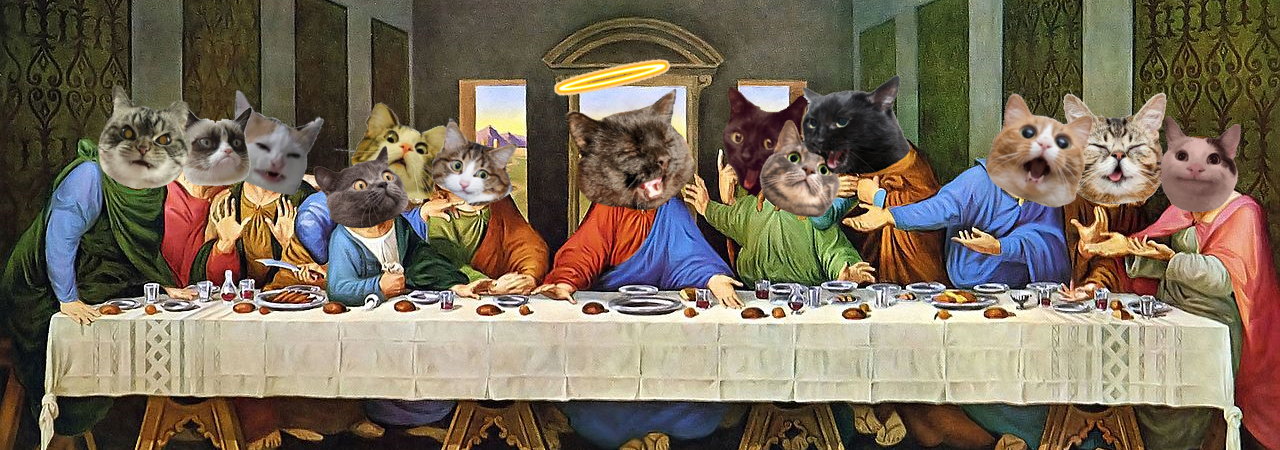
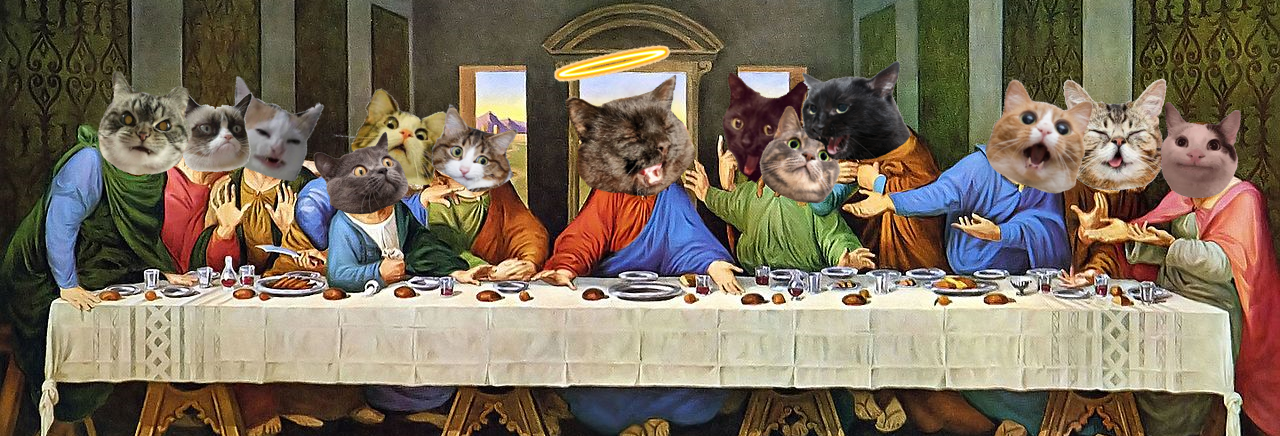
added some text on the pages, edited mobile view (minimal effort), added new topic to navi

diff --git a/main_page_styles.css b/main_page_styles.css
@@ -1,9 +1,12 @@
 html, body {
     height: 100vh;
-    width: 100vw;
+    width: 96vw;
+    margin: auto;
+    background-color: #222;
     font-family: Palatino, Helvetica, Serif;
     color: #CCC;
-    margin: 0;
+    margin-top: 0;
+    box-shadow: 5px 0 5px -5px rgba(0,0,0,0.7), -5px 0 5px -5px rgba(0,0,0,0.7);
 }
 
 /*
@@ -12,13 +15,11 @@ HEADER
 
 .header {
     background-image: url("img/supper.png");
-    background-size: 100% 138%;
+    background-size: 100% 140%;
     justify-content: center;
     height: 240px;
     padding: 10px;
-    box-shadow: 0px -5px 8px 5px black;
-    position: relative;
-    border-bottom: 1px solid #444;
+    border-bottom: 1px solid #AAA;
 }
 
 .headline {
@@ -44,8 +45,10 @@ Text part
 */
 
 .desc {
-    background-color: #CCC;
+    background-color: #EEE;
     width: 80%;
+    position: relative;
+    box-shadow: inset -5px 5px 6px 0 rgba(0, 0, 0, 0.3);
 }
 
 .text {
@@ -58,9 +61,14 @@ Text part
 .text_headline {
     margin-left: 50px;
     margin-top: 50px;
-    color: #222;
+    color: #D68910;
 }
 
+.main_text_headline {
+    margin-left: 50px;
+    margin-top: 50px;
+    color: #333;
+}
 
 
 /*
@@ -74,15 +82,26 @@ Navigator
     padding-top: 20px;
 }
 
+.main_headline {
+    text-decoration: none;
+    color: #D68910;
+}
+
+.main_headline:hover {
+    transition: all ease-out 0.2s;
+    font-size: 110%;
+    color: #b9680c;
+}
+
 .headlines {
     color: #222;
     text-decoration: none;
 }
 
 .headlines:hover {
-    transform: scale(1.02);
-    transition: ease-out 0.1s;
+    transition: all ease-out 0.1s;
     color: #D68910;
+    font-size: 110%;
 }
 
 .content {
@@ -101,4 +120,27 @@ li {
     list-style: inside;
     padding-bottom: 6px;
     color: #D68910;
+}
+
+
+
+/*
+MOBILE
+*/
+
+@media(max-width: 576px) {
+
+    html, body {
+        width: 100vw;
+    }
+
+    .header {
+        background-image: url("img/supper_mobile.png");
+        background-size: cover;
+    }
+
+    .desc, .navi {
+        width: 100%;
+    }
+
 }

diff --git a/net_projects.php b/net_projects.php
@@ -16,14 +16,22 @@
         <div class="desc">
 
             <div>
-                <h2 class="text_headline">Heipä hei ja tervetuloa katsomaan verkkoprojektejani!</h2>
+                <h2 class="main_text_headline">Heipä hei ja tervetuloa katsomaan verkkoprojektejani!</h2>
                 <p class="text">Projektini on listattu pienen kuvauksen kera alle. Linkit sivulle löytyvät projektin yhteydestä!</p>
             </div>
 
             <h3 class="text_headline" id="pekkaspaivat">Pekkaspäivät</h3>
+            <p class="text">Pekkaspäivät-sivusto on tarkoitettu pörriäishavaintojen tallentamiseen ja seuraamiseen. Tällä hetkellä sivustolle voi lisätä ja poistaa päiväkirjamerkintöjä havainnoista, mutta tulevaisuudessa sivustolle tulee myös jonkinlainen matemaattinen esitystapa havainnoille, jos havaintoja on tarpeeksi monta. Ajattelin, että kuvaaja olisi sopiva tapa havainnoistaa pörriäisten saapumis- ja lähtemisaikaa, ja kokonaisaikaa voisi kuvata esimerkiksi Gaussin jakauman avulla.
+            <br>&emsp;
+            Pekkaspäiviä voi käydä testaamassa testitunnuksilla (tunnus: Testi, ss: Testi). Kullekin "oikealle" käyttäjälle on kuitenkin luotu omat tunnukset, jotta kirjatuminen näyttää vain omat havainnot!
+            </p>
             <p class="text"><a class="links" href="https://ropaz.dev/Pekkaspaivat/index.php" target="_blank">Tästä linkistä pääset tutustumaan Pekkaspäiviin!</a></p>
 
             <h3 class="text_headline" id="nettikasvio">Nettikasvio</h3>
+            <p class="text">Nettikasvio on nimensä mukaisesti kasvio, joka tulee sisältämään kuvat ja nimet Suomen kauniista luonnosta löytyvistä yleisimmistä kasveista. Sivuston tarkoituksena on autaa luonnossa kulkijaa lajintunnistuksessa, mutta tällä hetkellä sivusto on kuitenkin vasta materiaalinkeruuvaiheessa.
+            <br>&emsp;
+            Kunhan materiaali on kerätty ja kuvat lisätty sivustolle, kasvioon tulee jonkinlainen kukan/kasvin väriin perustuva rajausominaisuus. Nettikasvioon tulee myös sellainen ominaisuus, että tunnuksen luoneet voivat lisätä materiaalia sivustolle. Ehkä sivulle tulee myös jonkinlainen kooste lajintunnistuksesta.
+            </p>
             <p class="text"><a class="links" href="https://ropaz.dev/Nettikasvio/index.php" target="_blank">Tästä linkistä pääset tutustumaan Nettikasvioon!</a></p>
         </div>
 

diff --git a/index.php b/index.php
@@ -14,11 +14,12 @@
 
     <div class="bottom">
         <div class="desc">
-            <h1 class="text_headline">Tämä sivu valmistuu tuota pikaa, kunhan ☢ Olkiluoto 3 ☢ toimittaa sähköä jouhevasti verkkoon.</h1>
-            <h1>🔧🔩🪛🪚🔨</h1>
-            <p>"Vitsin" keksi Spacha</p>
             <h2 class="text_headline">Tervetuloa Ropaz.dev:in pääsivulle!</h2>
-            <p class="text">Täältä voit löytää muun muassa linkit joillekin muille verkkosivuilleni, kuvia ja peräti tekstiä joihinkin askarteluprojekteihini liittyen.</p>
+            <p class="text">Tämä sivusto toimii niin sanottuna telakkana harrastuksiini liittyen; täältä voit löytää muun muassa linkit kuvauksineen joillekin muille verkkosivuilleni sekä kuvia ja peräti tekstiä joihinkin askarteluprojekteihini liittyen.
+            <br>&emsp;
+            Tänne sivulle on tarkoitus lisätä myös listamuotoinen kalenteri, joka kattaa aina seuraavan viikon päivät. Kalenteriin voin sitten lisätä, mitä olen ajatellut tehdä kunakin päivänä. Tämä ominaisuus tulee kuitenkin vain minun käyttööni, ja se tulee vaatimaan kirjautumisen.
+            </p>
+
         </div>
 
         <?php

diff --git a/calendar.php b/calendar.php
@@ -4,7 +4,7 @@
     <meta charset="utf-8">
     <meta name="viewport" content="width=device-width, initial-scale=1">
     <link rel="stylesheet" href="main_page_styles.css" />
-    <title>Ropaz – Projektit</title>
+    <title>Ropaz – Joku roti</title>
 </head>
 <body>
 
@@ -14,12 +14,8 @@
 
     <div class="bottom">
         <div class="desc">
-            <h2 class="main_text_headline">Askarteluja</h2>
-            <p class="text">Tänne lisäilen kuvia askarteluistani, joihin lukeutuu paljon virkkaustöitä ja jonkin verran puutöitä sekä satunnaisia muita projekteja.</p>
-
-            <h3 class="text_headline" id="heips">Heips</h3>
-            <p class="text">Jeppis.
-            <br>&emsp;
+            <h2 class="main_text_headline">Nyt joku roti siihen hommaan!</h2>
+            <p class="text">Järjestys on tämä!</p>
             </p>
         </div>
 

diff --git a/navi.php b/navi.php
@@ -1,5 +1,9 @@
 <div class="navi">
 
+    <h1>
+        <a class="main_headline function" href="http://localhost:8080/Paasivu">Etusivu</a>
+    </h1>
+
     <h2>
         <a class="headlines function" href="http://localhost:8080/Paasivu/net_projects.php">Verkkoprojektit</a>
     </h2>
@@ -28,5 +32,9 @@
             <a class="headlines">deips</a>
         </li>
     </div>
+
+    <h2>
+        <a class="headlines function" href="http://localhost:8080/Paasivu/calendar.php">Runtulista</a>
+    </h2>
 
 </div>
